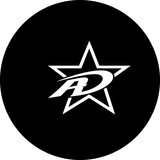
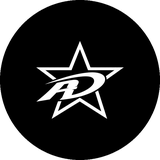
Center Awoken Dreams badge on its star, wider review cards, handle name

Changed region(s): [[0.2188, 0.25, 0.8125, 0.75]]

diff --git a/app/aether/testimonials.tsx b/app/aether/testimonials.tsx
@@ -33,14 +33,14 @@ const TESTIMONIALS: Testimonial[] = [
     // with a period, per the site's copy rules.
     quote:
       "Awesome customer service from start to finish! They worked directly with me and my team throughout the entire process, were responsive, professional, and made sure everything was exactly how we wanted it. Great experience overall. 100% recommend Inertia to anyone looking for a reliable web design team!",
-    name: "Awoken Dreams",
+    name: "awoken__dreams",
     logo: "/reviews/awokendreams.png",
   },
 ];
 
 /* Mobile: a scroll-snap row with the next card peeking in. sm and up: the
  * two-column grid. Same pattern as the homepage's "What we do" carousel. */
-const SLIDE = "max-sm:w-[85%] max-sm:shrink-0 max-sm:snap-start";
+const SLIDE = "max-sm:w-[88%] max-sm:shrink-0 max-sm:snap-start";
 
 function Card({ t, index }: { t: Testimonial; index: number }) {
   return (
@@ -111,7 +111,7 @@ export function Testimonials() {
         </p>
         <div
           ref={trackRef}
-          className="no-scrollbar mx-auto max-w-[56rem] lg:max-w-[76rem] gap-3 max-sm:-mx-3 max-sm:flex max-sm:items-stretch max-sm:overflow-x-auto max-sm:overscroll-x-contain max-sm:snap-x max-sm:snap-mandatory max-sm:px-3 max-sm:scroll-px-3 sm:grid sm:grid-cols-2 lg:grid-cols-3 sm:gap-4"
+          className="no-scrollbar mx-auto max-w-[64rem] lg:max-w-[80rem] gap-3 max-sm:-mx-3 max-sm:flex max-sm:items-stretch max-sm:overflow-x-auto max-sm:overscroll-x-contain max-sm:snap-x max-sm:snap-mandatory max-sm:px-3 max-sm:scroll-px-3 sm:grid sm:grid-cols-2 lg:grid-cols-3 sm:gap-4"
         >
           {TESTIMONIALS.map((t, i) => (
             <Card key={t.name} t={t} index={i} />
